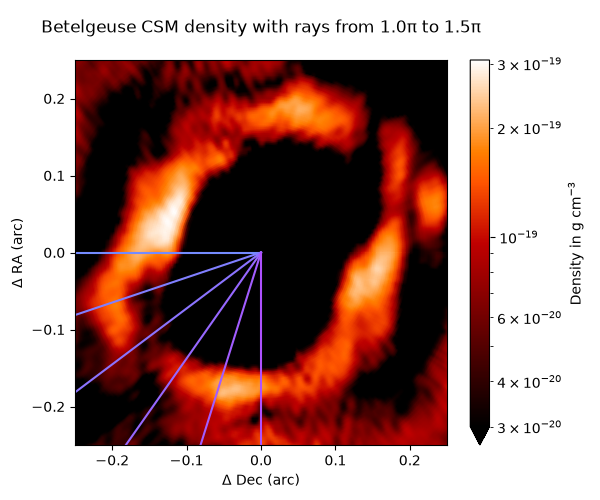
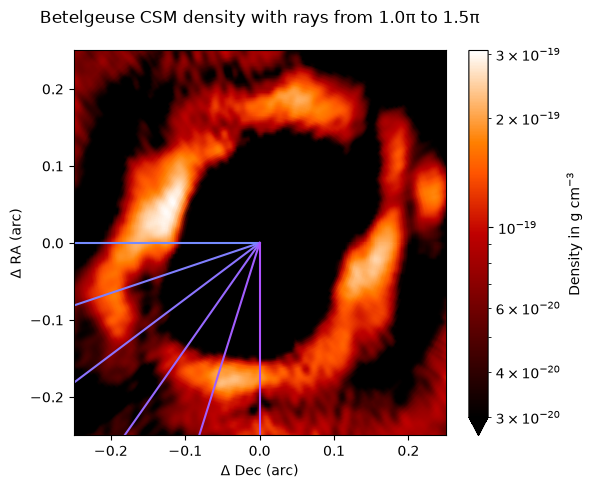
fixed graph truncating

diff --git a/interp_and_iat_2d.py b/interp_and_iat_2d.py
@@ -283,10 +283,10 @@ def plot_rays_image(x_grid,y_grid,interp_star,vmax=v_max,shift=True, line_a=0, l
 
     if save==True and title is None:
         filename = f"thesis/csm_abel_plots/csm_abel_image_rays_{psi_a}_{psi_b}pi.png"
-        plt.savefig(filename)
+        plt.savefig(filename,bbox_inches='tight')
     elif save==True and no_rays==True:
         filename = f"thesis/csm_abel_plots/csm_abel_image_no_rays.png"
-        plt.savefig(filename)
+        plt.savefig(filename,bbox_inches='tight')
 
 
 def plot_single_rays(radius, data, line_a, line_b,save=False,csm=False,rnge=0.4):    
@@ -351,7 +351,7 @@ def plot_single_rays(radius, data, line_a, line_b,save=False,csm=False,rnge=0.4)
 
     if save==True:
             filename = f"thesis/csm_abel_plots/csm_abel_single_rays_{psi_a}_{psi_b}pi.png"
-            plt.savefig(filename)
+            plt.savefig(filename,bbox_inches='tight')
 
 def plot_sections(x_grid_csm,y_grid_csm,radius_2d_arc_csm,csm_abel,vmax=2e-19,shift=True,line_a=0,line_b=19,save_plots=False,rays_img_title=None,csm=False,rnge=0.3):
     '''
